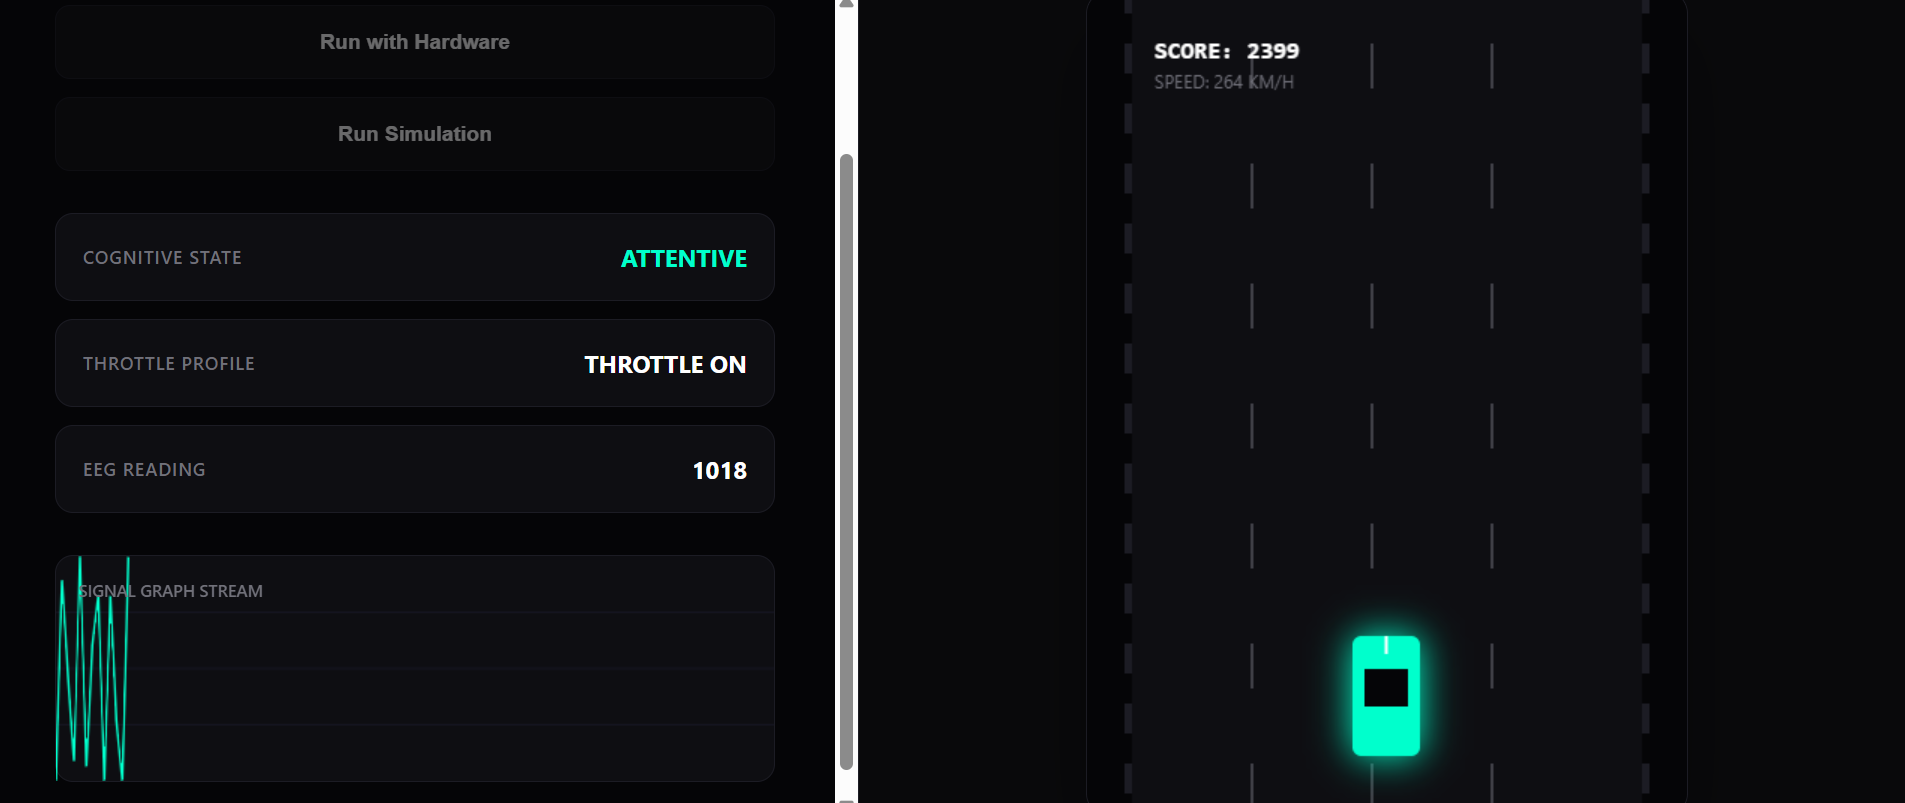
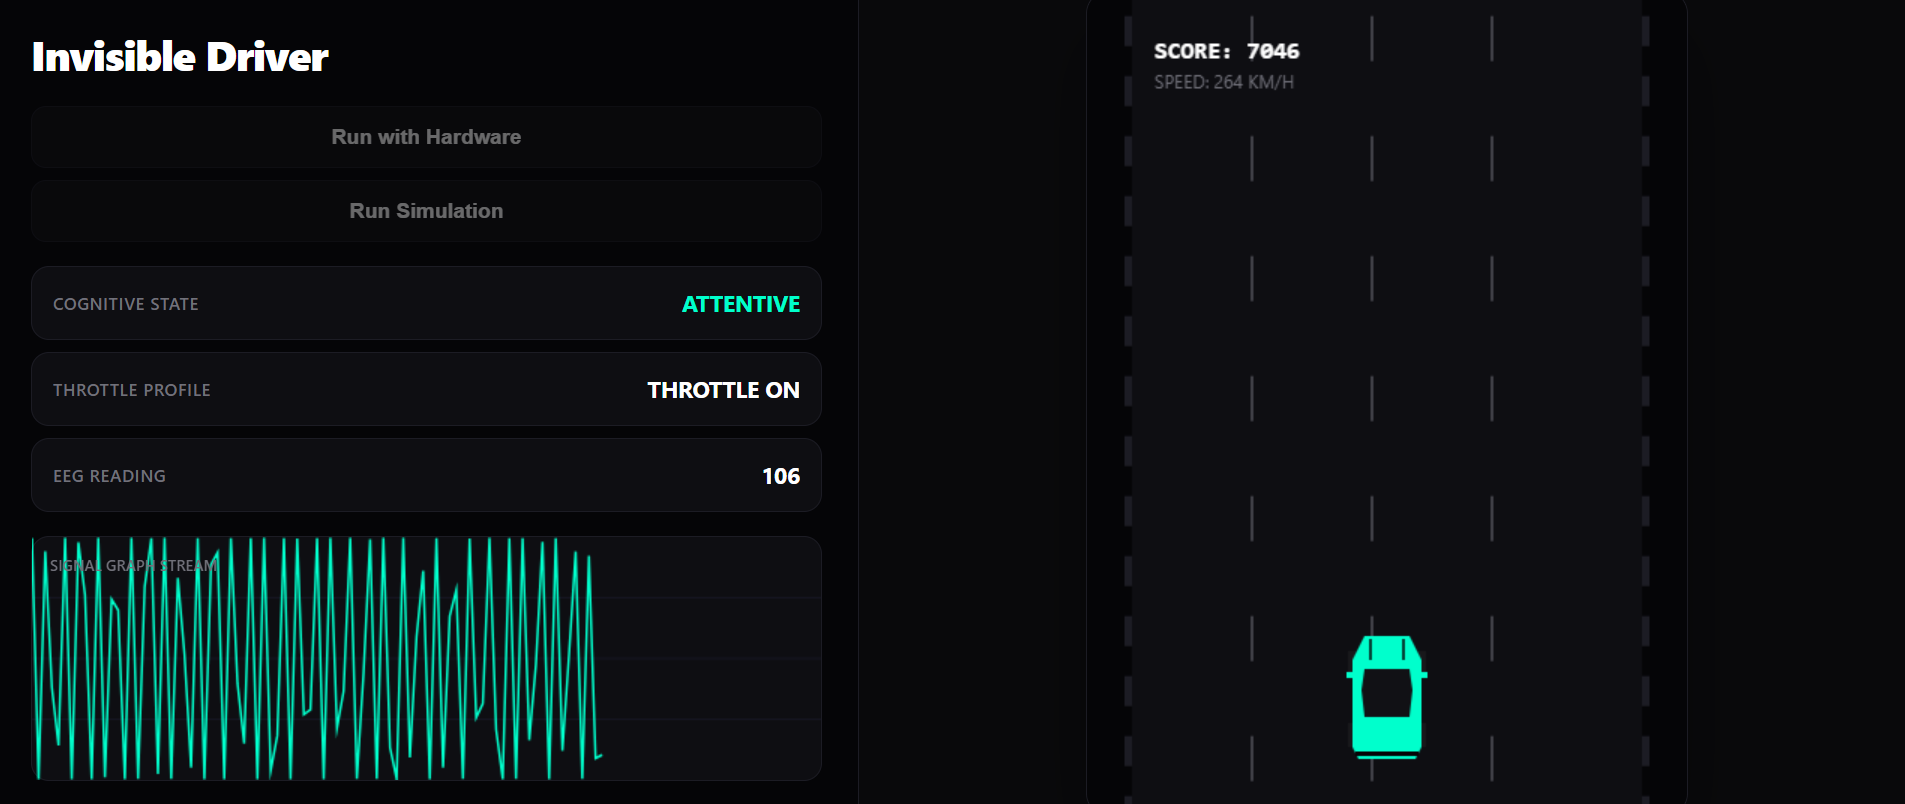
update: removed glow feature and scroll bar element from UI

diff --git a/templates/script.js b/templates/script.js
@@ -9,13 +9,12 @@ const maxTraceSamples = 120;
 let globalCognitiveState = "RELAXED";
 
 // --- FIXED STRAIGHT LINE HIGHWAY ENGINE ---
-let car = { x: 177, y: 430, width: 45, height: 80, targetSpeed: 0, speed: 0, maxVelocity: 22 };
+let car = { x: 177, y: 430, width: 46, height: 82, targetSpeed: 0, speed: 0, maxVelocity: 22 };
 let score = 0;
 let totalOdometer = 0;
 let animatedLineOffset = 0;
 
 function progressEngineTicks() {
-    // Speed transitions
     car.speed += (car.targetSpeed - car.speed) * 0.05;
     totalOdometer += car.speed;
     animatedLineOffset = (animatedLineOffset + car.speed) % 80;
@@ -23,8 +22,6 @@ function progressEngineTicks() {
     if (car.speed > 1) {
         score += Math.floor(car.speed * 0.1);
     }
-
-    // CAR POSITION FIX: Locked cleanly to centerline coordinates (no sway calculation)
     car.x = 177; 
 }
 
@@ -56,24 +53,63 @@ function renderArcadeGraphics() {
     }
     ctx.setLineDash([]); 
 
-    // Draw Player Supercar chassis
+    // --- DRAW TOP-DOWN VEHICLE (No Glow) ---
     ctx.save();
-    ctx.shadowBlur = car.speed > 5 ? 25 : 5;
-    
     let colorAccent = (globalCognitiveState === "ATTENTIVE") ? lookupStyle('--accent-cyan') : lookupStyle('--accent-blue');
-    ctx.shadowColor = colorAccent;
-    ctx.fillStyle = colorAccent;
     
-    ctx.beginPath();
-    ctx.roundRect(car.x, car.y, car.width, car.height, 6);
-    ctx.fill();
-    ctx.restore();
+    // 1. Tires (4 corner wheels)
+    ctx.fillStyle = "#18181b";
+    ctx.fillRect(car.x - 3, car.y + 10, 5, 14); // Front Left
+    ctx.fillRect(car.x + car.width - 2, car.y + 10, 5, 14); // Front Right
+    ctx.fillRect(car.x - 3, car.y + car.height - 24, 5, 16); // Rear Left
+    ctx.fillRect(car.x + car.width - 2, car.y + car.height - 24, 5, 16); // Rear Right
 
-    // Canopy glass elements
+    // 2. Side Mirrors
+    ctx.fillStyle = colorAccent;
+    ctx.fillRect(car.x - 4, car.y + 24, 5, 4);
+    ctx.fillRect(car.x + car.width - 1, car.y + 24, 5, 4);
+
+    // 3. Main Chassis/Body (Tapered top-down blueprint)
+    ctx.fillStyle = colorAccent;
+    ctx.beginPath();
+    ctx.moveTo(car.x + 8, car.y); // Front left hood
+    ctx.lineTo(car.x + car.width - 8, car.y); // Front right hood
+    ctx.lineTo(car.x + car.width, car.y + 16); // Front fender right
+    ctx.lineTo(car.x + car.width, car.y + car.height - 8); // Rear right
+    ctx.lineTo(car.x + car.width - 4, car.y + car.height); // Rear bumper right
+    ctx.lineTo(car.x + 4, car.y + car.height); // Rear bumper left
+    ctx.lineTo(car.x, car.y + car.height - 8); // Rear left
+    ctx.lineTo(car.x, car.y + 16); // Front fender left
+    ctx.closePath();
+    ctx.fill();
+
+    // 4. Windshield & Glass Greenhouse Canopy
+    ctx.fillStyle = "#111115";
+    ctx.beginPath();
+    ctx.moveTo(car.x + 8, car.y + 22); // Windshield base left
+    ctx.lineTo(car.x + car.width - 8, car.y + 22); // Windshield base right
+    ctx.lineTo(car.x + car.width - 6, car.y + 36); // Side window right
+    ctx.lineTo(car.x + car.width - 8, car.y + 54); // Rear window right
+    ctx.lineTo(car.x + 8, car.y + 54); // Rear window left
+    ctx.lineTo(car.x + 6, car.y + 36); // Side window left
+    ctx.closePath();
+    ctx.fill();
+
+    // 5. Front Hood Detailing
+    ctx.strokeStyle = "#050507";
+    ctx.lineWidth = 1.5;
+    ctx.beginPath();
+    ctx.moveTo(car.x + 12, car.y + 2);
+    ctx.lineTo(car.x + 12, car.y + 16);
+    ctx.moveTo(car.x + car.width - 12, car.y + 2);
+    ctx.lineTo(car.x + car.width - 12, car.y + 16);
+    ctx.stroke();
+
+    // 6. Rear spoiler wing profile
     ctx.fillStyle = "#050507";
-    ctx.fillRect(car.x + 8, car.y + 22, car.width - 16, 25);
-    ctx.fillStyle = "#ffffff"; 
-    ctx.fillRect(car.x + car.width/2 - 1, car.y, 2, 12);
+    ctx.fillRect(car.x + 2, car.y + car.height - 5, car.width - 4, 3);
+
+    ctx.restore();
 
     // Dashboard Overlay fonts
     ctx.fillStyle = "#ffffff";

diff --git a/templates/style.css b/templates/style.css
@@ -21,28 +21,27 @@ body {
 /* Left Side: Controls & Analytics */
 #hud-panel {
     width: 45%;
-    padding: 40px;
+    padding: 24px; /* Reduced to eliminate internal scrollbars */
     display: flex;
     flex-direction: column;
     background: var(--bg-base);
     border-right: 1px solid var(--border-subtle);
     box-sizing: border-box;
-    gap: 28px;
-    overflow-y: auto;
+    gap: 16px; /* Tightened element spacing */
+    overflow: hidden; /* Strict container constraints */
 }
 
 .panel-title h1 { 
     color: var(--text-main); 
-    margin: 0 0 4px 0; 
-    font-size: 32px; 
+    margin: 0; 
+    font-size: 28px; 
     font-weight: 800;
     letter-spacing: -0.03em;
 }
-.panel-title p { margin: 0; color: var(--text-muted); font-size: 14px; }
 
-.btn-column { display: flex; flex-direction: column; gap: 12px; }
+.btn-column { display: flex; flex-direction: column; gap: 8px; }
 button {
-    width: 100%; padding: 16px; font-size: 14px; font-weight: 600;
+    width: 100%; padding: 12px; font-size: 14px; font-weight: 600;
     border: 1px solid var(--border-subtle); border-radius: 10px; cursor: pointer;
     transition: all 0.2s ease; color: var(--text-main); background: var(--bg-surface);
 }
@@ -52,31 +51,32 @@ button:hover:not(:disabled) {
 }
 button:disabled { opacity: 0.4; cursor: not-allowed; }
 
-.metrics-stack { display: flex; flex-direction: column; gap: 12px; }
+.metrics-stack { display: flex; flex-direction: column; gap: 8px; }
 .metric-tile { 
     background: var(--bg-surface); 
     border: 1px solid var(--border-subtle); 
-    padding: 18px; 
+    padding: 14px; 
     border-radius: 12px; 
     display: flex;
     justify-content: space-between;
     align-items: center;
 }
-.tile-label { font-size: 12px; font-weight: 500; text-transform: uppercase; letter-spacing: 0.05em; color: var(--text-muted); }
-.tile-value { font-size: 16px; font-weight: 700; color: var(--text-main); }
+.tile-label { font-size: 11px; font-weight: 500; text-transform: uppercase; letter-spacing: 0.05em; color: var(--text-muted); }
+.tile-value { font-size: 15px; font-weight: 700; color: var(--text-main); }
 
 .status-attentive { color: var(--accent-cyan) !important; }
 .status-relaxed { color: var(--accent-blue) !important; }
 
 .oscilloscope-box {
-    height: 180px;
+    flex-grow: 1; /* Maximizes frame space dynamically without exceeding parent */
+    min-height: 140px;
     background: var(--bg-surface);
     border-radius: 12px;
     border: 1px solid var(--border-subtle);
     position: relative;
 }
 #oscilloscopeCanvas { width: 100%; height: 100%; display: block; }
-.oscilloscope-tag { position: absolute; top: 15px; left: 15px; font-size: 11px; font-weight: 600; text-transform: uppercase; color: var(--text-muted); z-index: 10; }
+.oscilloscope-tag { position: absolute; top: 12px; left: 12px; font-size: 10px; font-weight: 600; text-transform: uppercase; color: var(--text-muted); z-index: 10; }
 
 /* Right Side: Arcade Display Window */
 #game-viewport {

diff --git a/templates/index.html b/templates/index.html
@@ -10,7 +10,6 @@
     <div id="hud-panel">
         <div class="panel-title">
             <h1>Invisible Driver</h1>
-            <p>Drive car using brain</p>
         </div>
         
         <div class="btn-column">
